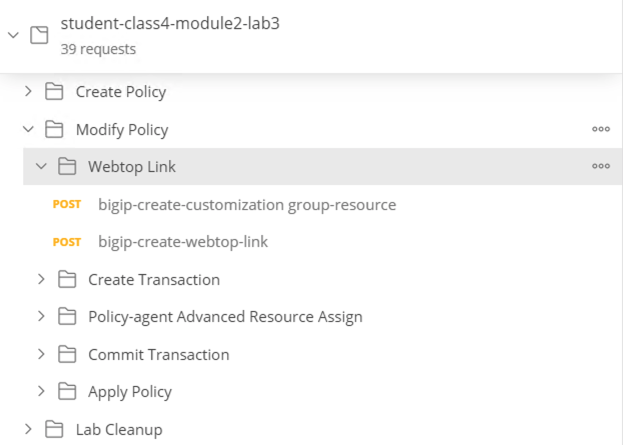
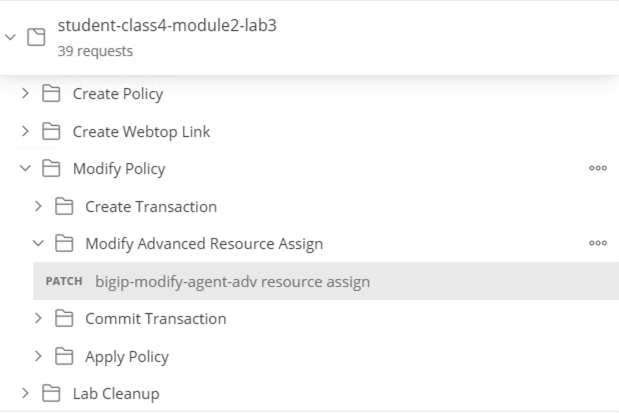
module 2 lab 3 draft 7

diff --git a/class4/module2/lab03.rst b/class4/module2/lab03.rst
@@ -44,7 +44,7 @@ Task 2 - Create A Webtop Policy
 
     |image007|
 
-#. Click the **Create Access Objects** folder. You will see two subfolders in the folder.
+#. Click the **Create Policy** folder. You will see two subfolders in the folder.
 
     |image008|
 
@@ -108,6 +108,14 @@ Task 3 - Create a Webtop Link
 
 Task 4 - Add a webtop to an Advanced Resource Assign
 -----------------------------------------------------------------------
+
+    .. note::  When creating or modifying a policy it must be performed within a transaction.  A transaction occurs in multiple steps.  First, you create the transation by receiving a transaction ID from the BIG-IP.  Next, you pass subsequent configuration requests that contain the transaction ID header to the BIG-IP.  The BIG-IP does not process these requests.  Instead it holds those requests until the transaction is commited in the final step.  It's important to understand that transactions have an all or nothing approach.  Either every request in the transaction is process sucessfully or none of the configuration changes are made.  This is extremely important to ensure all the required information is there for building a working policy. To understand more about transactions please review XXXXXX.
+
+#.  Since this policy change only requires the addition of a single we will only review the single request.   Click **bigip-create-agent-adv resource assign** and then **Body**.
+
+#.  Notice the request method is a PATCH because the advanced resource assign agent exists.  We do not want to create the agent, but modify an existing agent.
+
+#.  
 
 
 
